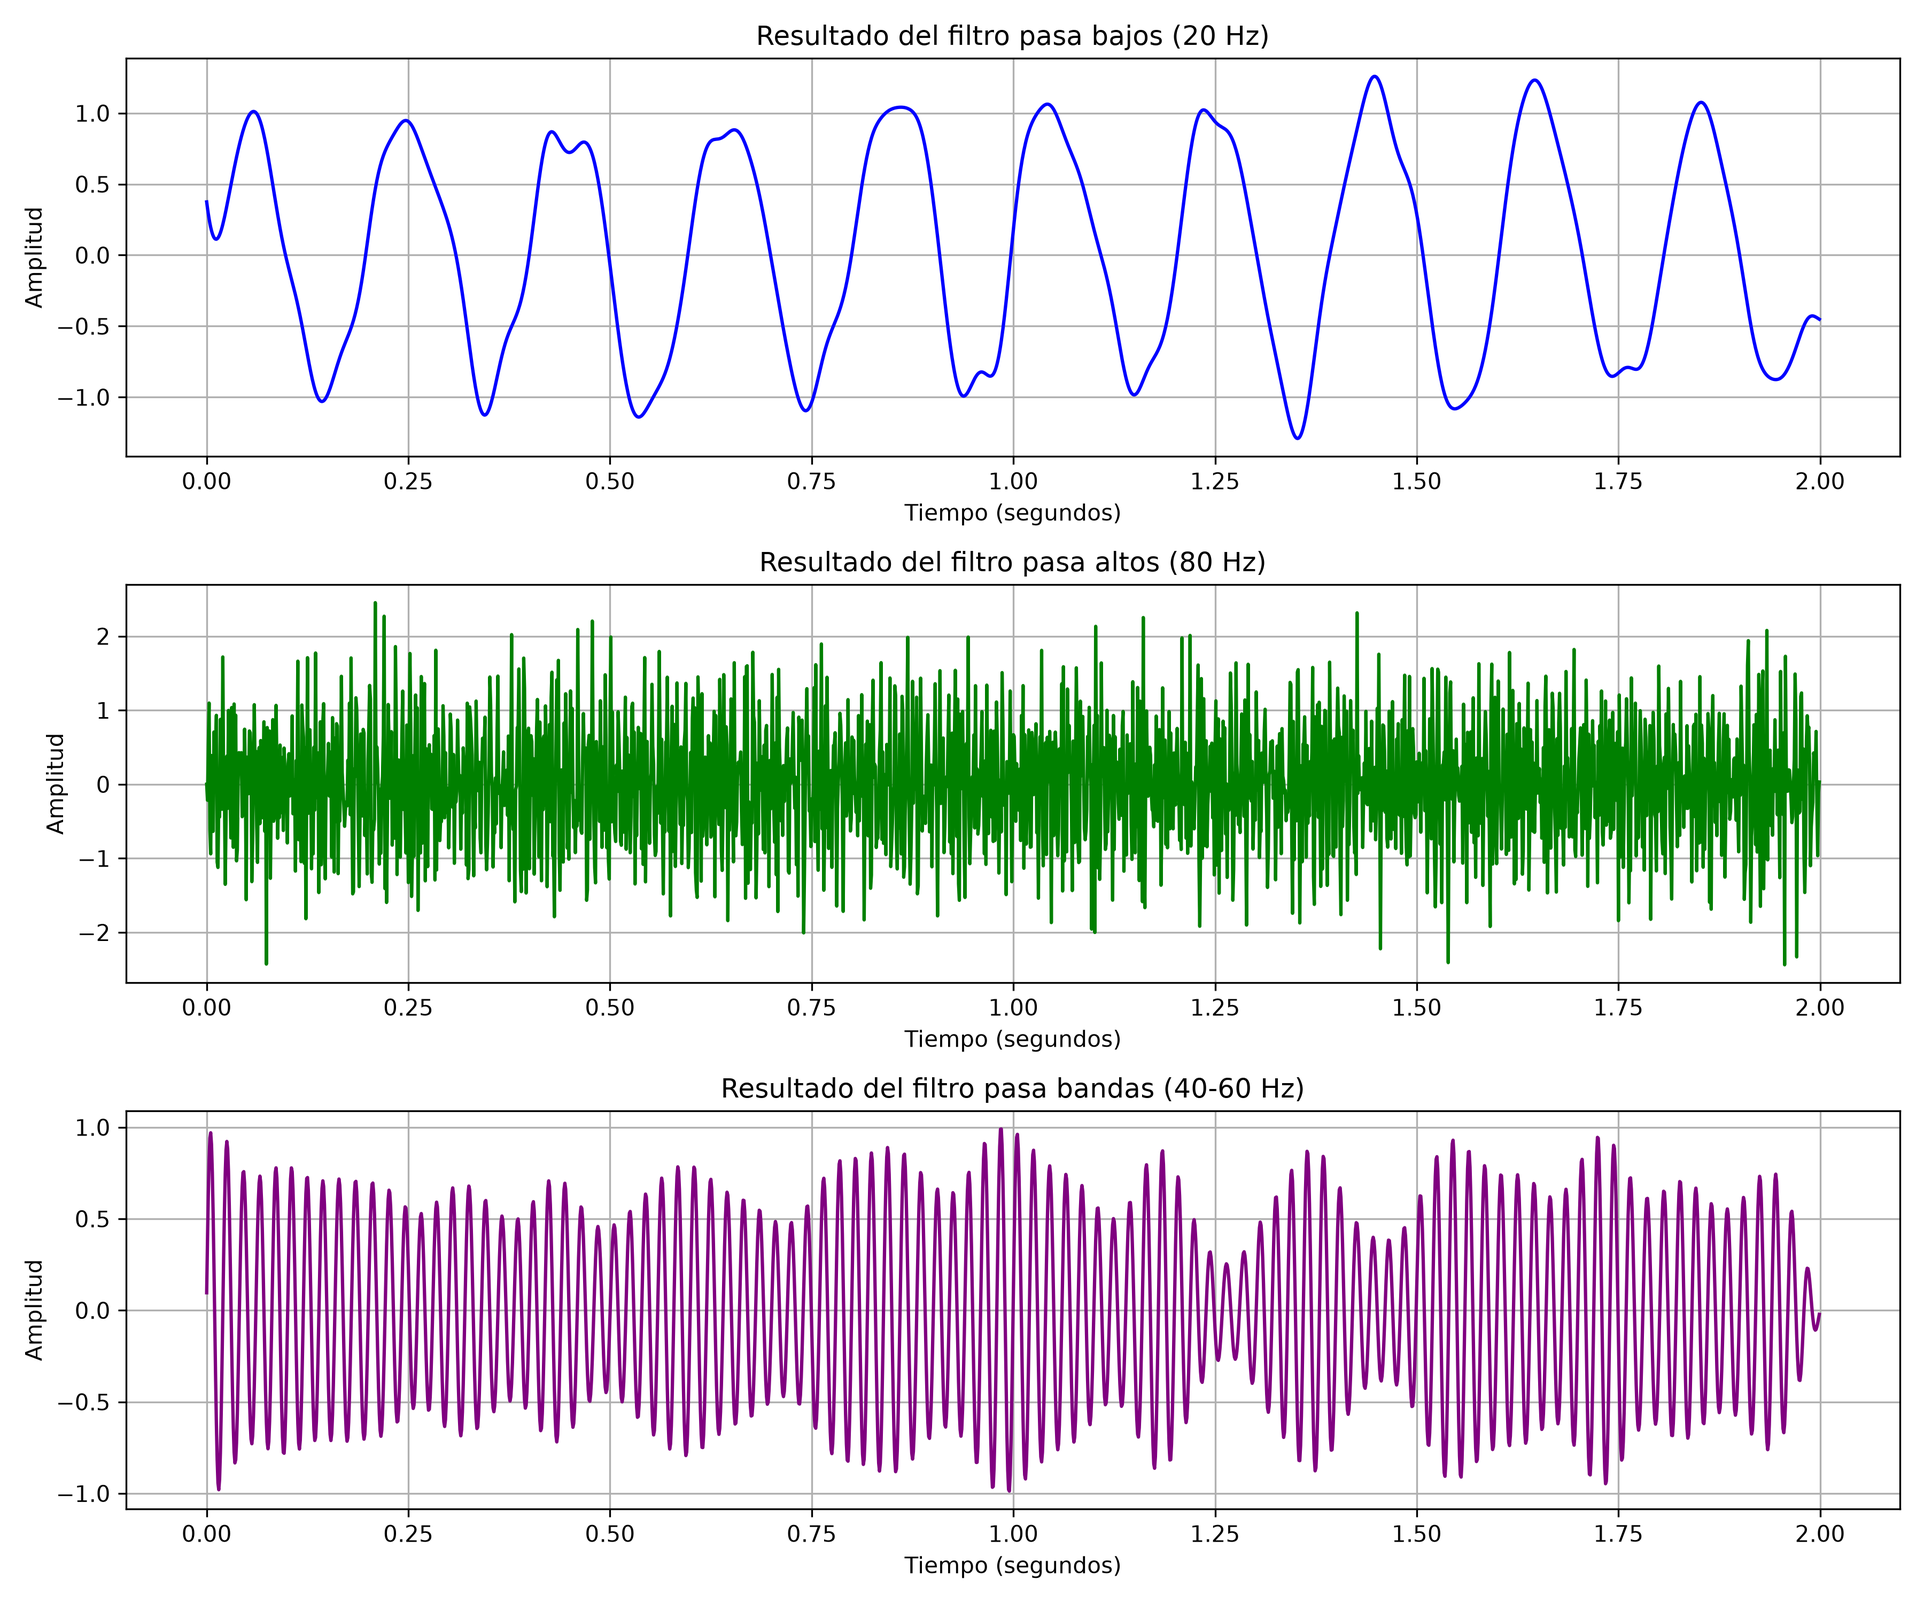
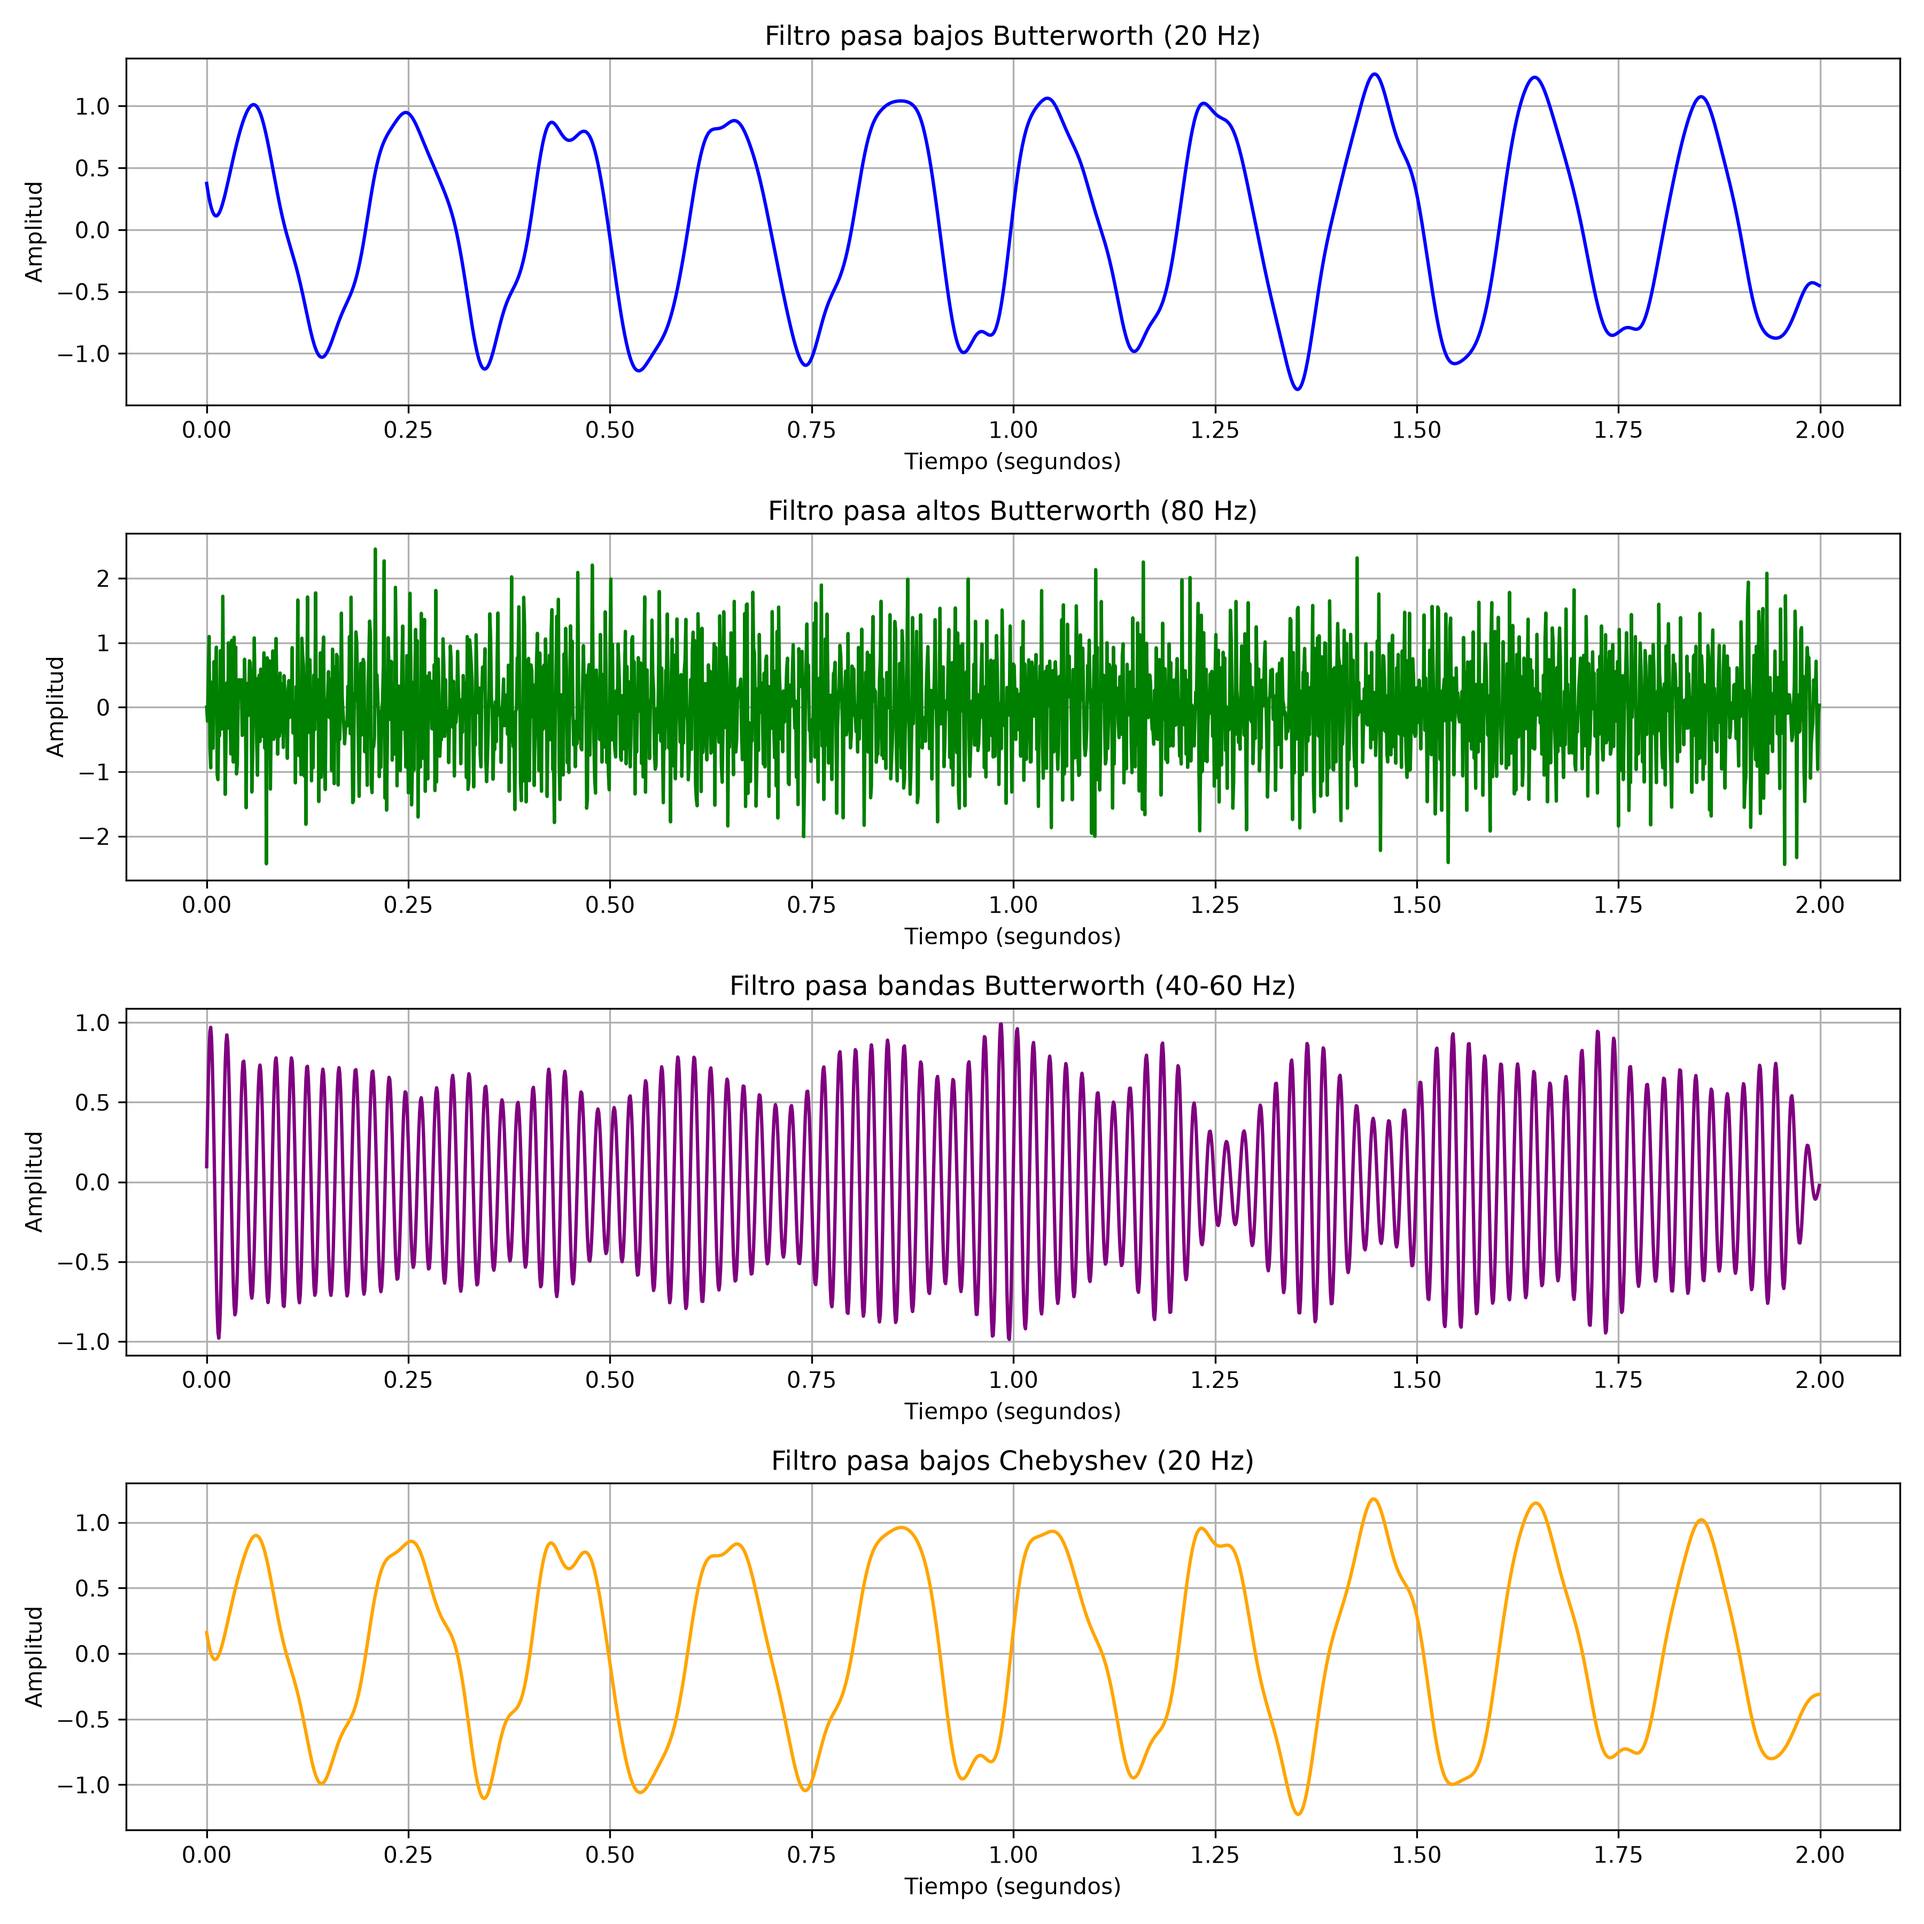
Version final del proyecto de filtros digitales

diff --git a/main.py b/main.py
@@ -133,12 +133,32 @@ filtro_bandas = signal.butter(
 )
 
 # ------------------------------------------------------------
+# DISEÑO DEL FILTRO CHEBYSHEV TIPO I
+# ------------------------------------------------------------
+
+filtro_chebyshev = signal.cheby1(
+    4,                  # Orden del filtro
+    1,                  # Rizado máximo en banda de paso (dB)
+    20,                 # Frecuencia de corte (Hz)
+    btype="lowpass",
+    fs=frecuencia_muestreo,
+    output="sos"
+)
+
+# ------------------------------------------------------------
 # 2. APLICAR LOS FILTROS A LA SEÑAL RUIDOSA
 # ------------------------------------------------------------
 
 resultado_bajos = signal.sosfiltfilt(
     filtro_bajos, senal_ruidosa
 )
+
+# Aplicar el filtro Chebyshev
+resultado_chebyshev = signal.sosfiltfilt(
+    filtro_chebyshev,
+    senal_ruidosa
+)
+
 
 resultado_altos = signal.sosfiltfilt(
     filtro_altos, senal_ruidosa
@@ -201,23 +221,32 @@ print("Filtro FIR aplicado correctamente.")
 
 plt.figure(figsize=(12, 10))
 
-plt.subplot(3, 1, 1)
+plt.figure(figsize=(12, 12))
+
+plt.subplot(4, 1, 1)
 plt.plot(tiempo, resultado_bajos, color="blue")
-plt.title("Resultado del filtro pasa bajos (20 Hz)")
+plt.title("Filtro pasa bajos Butterworth (20 Hz)")
 plt.xlabel("Tiempo (segundos)")
 plt.ylabel("Amplitud")
 plt.grid()
 
-plt.subplot(3, 1, 2)
+plt.subplot(4, 1, 2)
 plt.plot(tiempo, resultado_altos, color="green")
-plt.title("Resultado del filtro pasa altos (80 Hz)")
+plt.title("Filtro pasa altos Butterworth (80 Hz)")
 plt.xlabel("Tiempo (segundos)")
 plt.ylabel("Amplitud")
 plt.grid()
 
-plt.subplot(3, 1, 3)
+plt.subplot(4, 1, 3)
 plt.plot(tiempo, resultado_bandas, color="purple")
-plt.title("Resultado del filtro pasa bandas (40-60 Hz)")
+plt.title("Filtro pasa bandas Butterworth (40-60 Hz)")
+plt.xlabel("Tiempo (segundos)")
+plt.ylabel("Amplitud")
+plt.grid()
+
+plt.subplot(4, 1, 4)
+plt.plot(tiempo, resultado_chebyshev, color="orange")
+plt.title("Filtro pasa bajos Chebyshev (20 Hz)")
 plt.xlabel("Tiempo (segundos)")
 plt.ylabel("Amplitud")
 plt.grid()
@@ -234,9 +263,10 @@ plt.figure(figsize=(12, 6))
 
 # Obtener la respuesta en frecuencia de cada filtro
 for filtro, nombre in [
-    (filtro_bajos, "Pasa bajos"),
-    (filtro_altos, "Pasa altos"),
-    (filtro_bandas, "Pasa bandas")
+    (filtro_bajos, "Pasa bajos Butterworth"),
+    (filtro_altos, "Pasa altos Butterworth"),
+    (filtro_bandas, "Pasa bandas Butterworth"),
+    (filtro_chebyshev, "Pasa bajos Chebyshev")
 ]:
 
     frecuencias, respuesta = signal.sosfreqz(
@@ -283,6 +313,55 @@ plt.grid()
 
 plt.tight_layout()
 plt.savefig("respuesta_frecuencia.png", dpi=300)
+plt.show()
+# ------------------------------------------------------------
+# 5. ANALIZAR EL ESPECTRO DE LAS SEÑALES
+# ------------------------------------------------------------
+
+# Calcular la Transformada Rápida de Fourier
+def obtener_espectro(senal):
+
+    espectro = np.fft.rfft(senal)
+
+    frecuencias = np.fft.rfftfreq(
+        len(senal),
+        d=1 / frecuencia_muestreo
+    )
+
+    amplitud = 2 * np.abs(espectro) / len(senal)
+
+    return frecuencias, amplitud
+
+
+# Obtener el espectro de la señal original y filtradas
+plt.figure(figsize=(12, 7))
+
+for nombre, senal in [
+    ("Señal con ruido", senal_ruidosa),
+    ("Butterworth pasa bajos", resultado_bajos),
+    ("Butterworth pasa altos", resultado_altos),
+    ("Butterworth pasa bandas", resultado_bandas),
+    ("Chebyshev pasa bajos", resultado_chebyshev),
+    ("FIR pasa bajos", resultado_fir)
+]:
+
+    frecuencias, amplitud = obtener_espectro(senal)
+
+    plt.plot(
+        frecuencias,
+        amplitud,
+        label=nombre
+    )
+
+plt.title("Espectro de frecuencias antes y después del filtrado")
+plt.xlabel("Frecuencia (Hz)")
+plt.ylabel("Amplitud")
+plt.xlim(0, 200)
+plt.legend()
+plt.grid()
+
+plt.tight_layout()
+plt.savefig("espectro_frecuencias.png", dpi=300)
 plt.show()
 
 # ------------------------------------------------------------
@@ -340,9 +419,10 @@ def medir_frecuencia(senal, frecuencia_objetivo):
 senales = {
     "Original": senal_original,
     "Con ruido": senal_ruidosa,
-    "Pasa bajos IIR": resultado_bajos,
-    "Pasa altos IIR": resultado_altos,
-    "Pasa bandas IIR": resultado_bandas,
+    "Pasa bajos Butterworth": resultado_bajos,
+    "Pasa altos Butterworth": resultado_altos,
+    "Pasa bandas Butterworth": resultado_bandas,
+    "Pasa bajos Chebyshev": resultado_chebyshev,
     "Pasa bajos FIR": resultado_fir
 }
 
